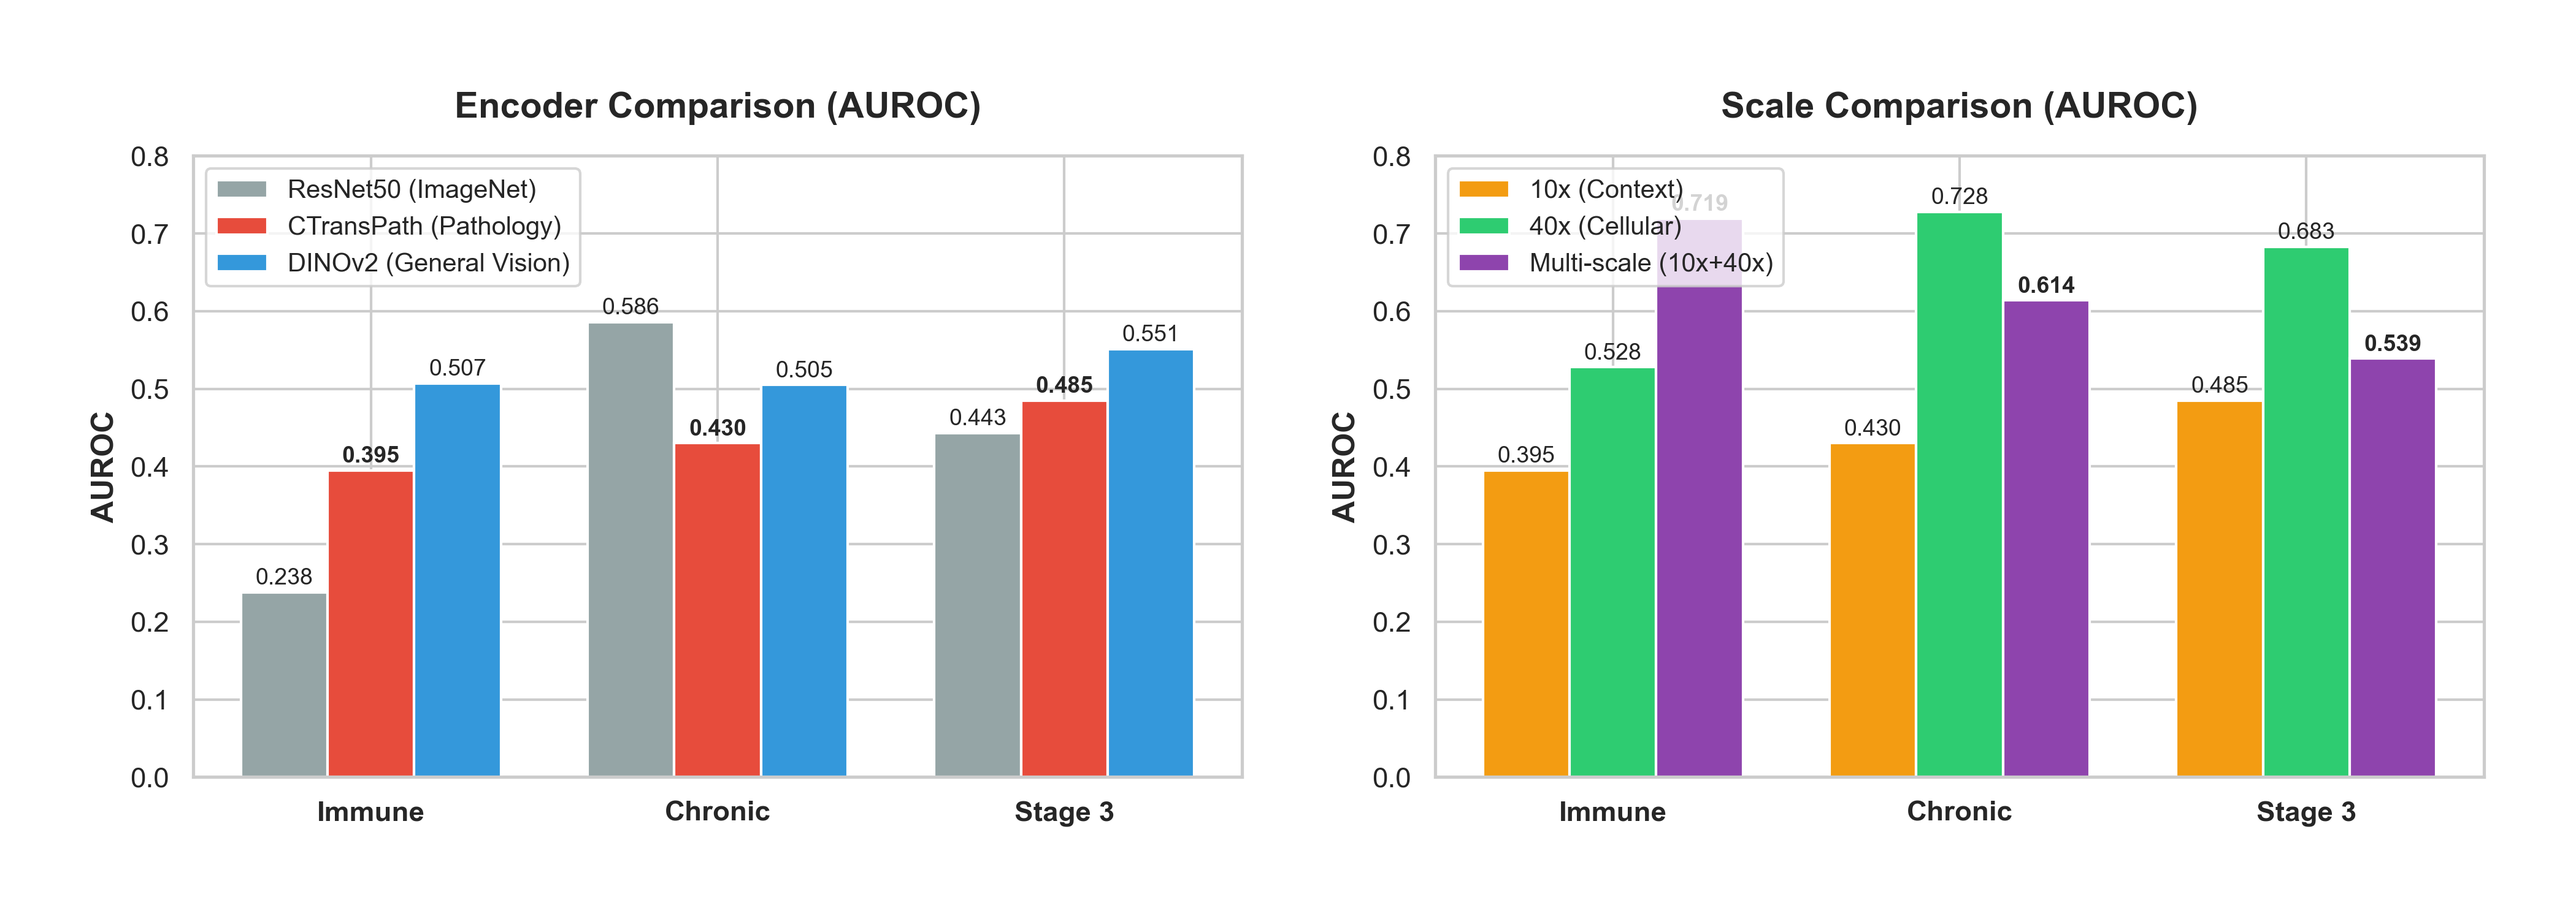
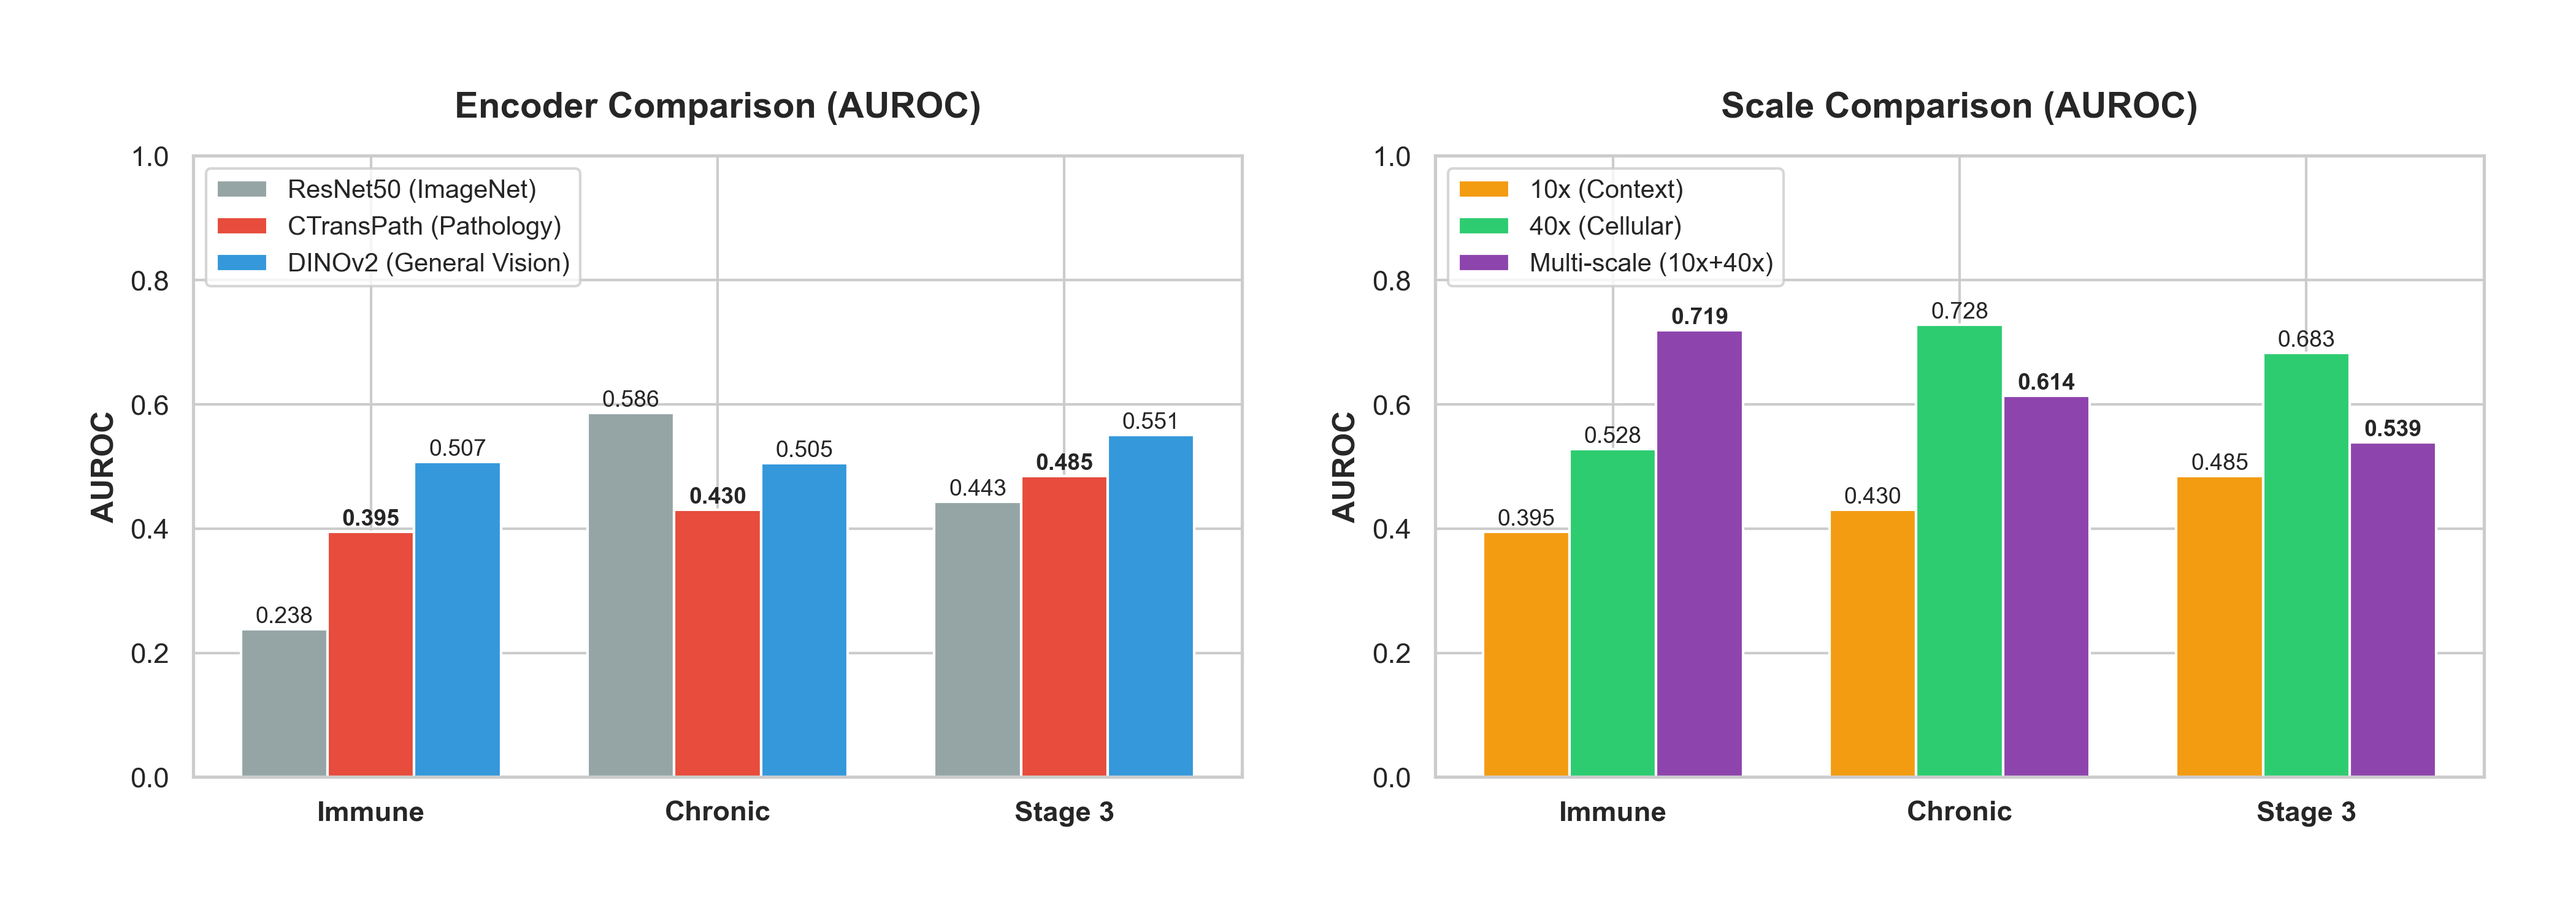
Increase ylim to prevent legend overlapping with bars in ablation plots

diff --git a/make_ablation_plots.py b/make_ablation_plots.py
@@ -37,7 +37,7 @@ ax1.bar(x + width, encoder_data[2], width, label='DINOv2 (General Vision)', colo
 ax1.set_title('Encoder Comparison (AUROC)', fontsize=14, fontweight='bold', pad=15)
 ax1.set_xticks(x)
 ax1.set_xticklabels(tasks, fontsize=11, fontweight='bold')
-ax1.set_ylim(0, 0.8)
+ax1.set_ylim(0, 1.0)
 ax1.set_ylabel('AUROC', fontsize=12, fontweight='bold')
 ax1.legend(loc='upper left', fontsize=10)
 
@@ -54,7 +54,7 @@ ax2.bar(x + width, scale_data[2], width, label='Multi-scale (10x+40x)', color='#
 ax2.set_title('Scale Comparison (AUROC)', fontsize=14, fontweight='bold', pad=15)
 ax2.set_xticks(x)
 ax2.set_xticklabels(tasks, fontsize=11, fontweight='bold')
-ax2.set_ylim(0, 0.8)
+ax2.set_ylim(0, 1.0)
 ax2.set_ylabel('AUROC', fontsize=12, fontweight='bold')
 ax2.legend(loc='upper left', fontsize=10)
 
